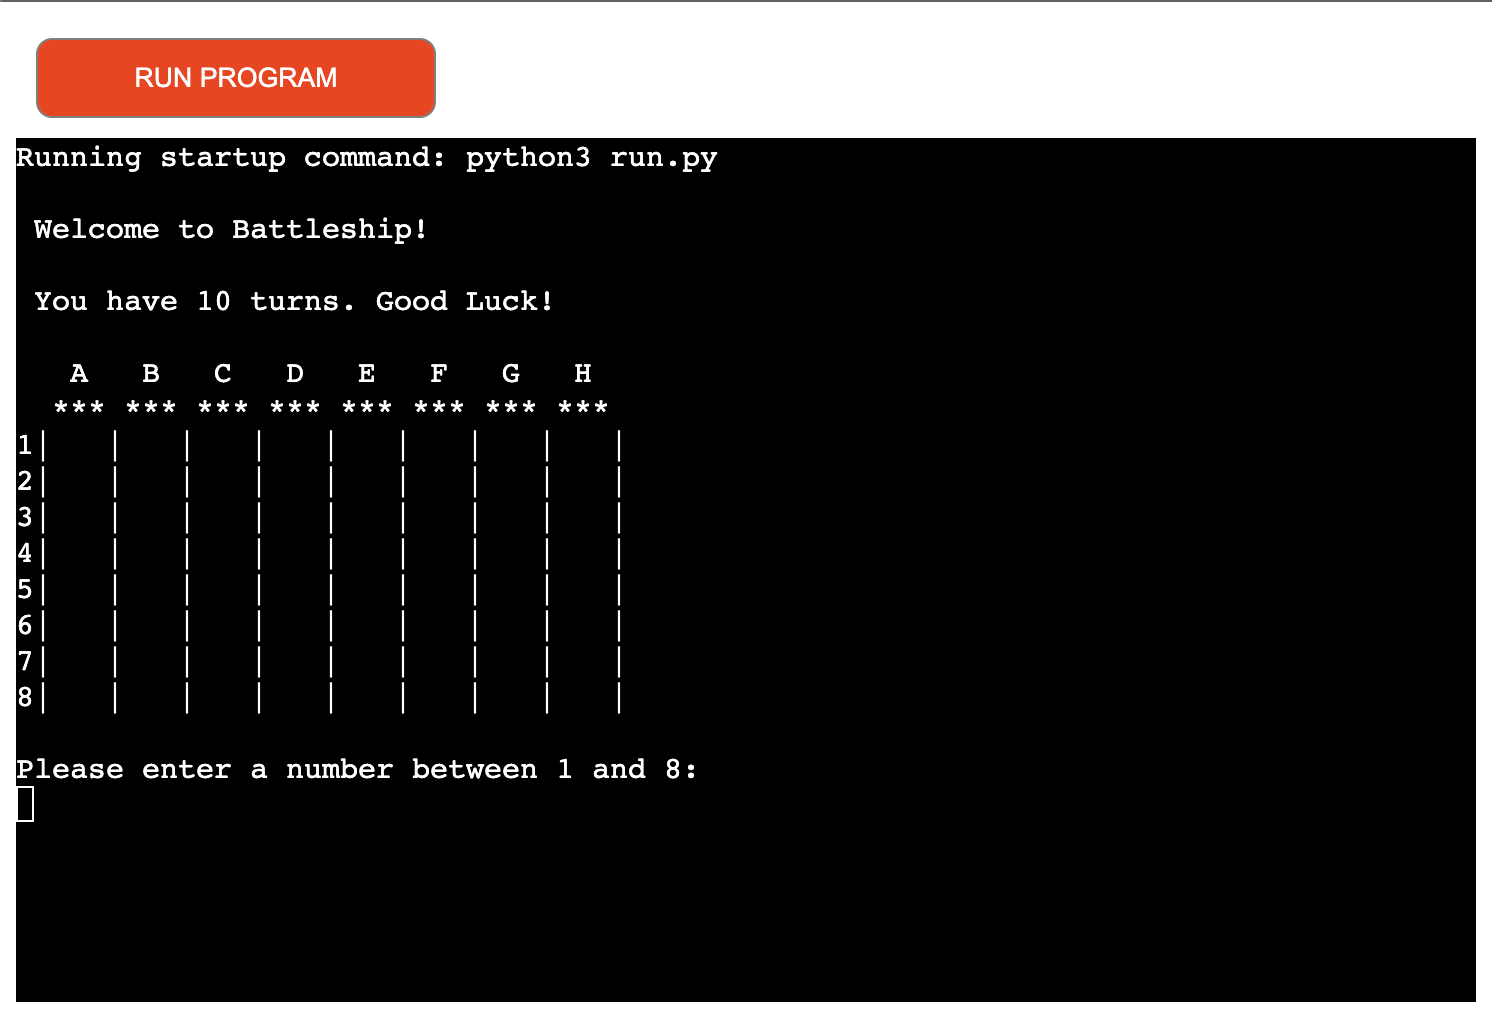
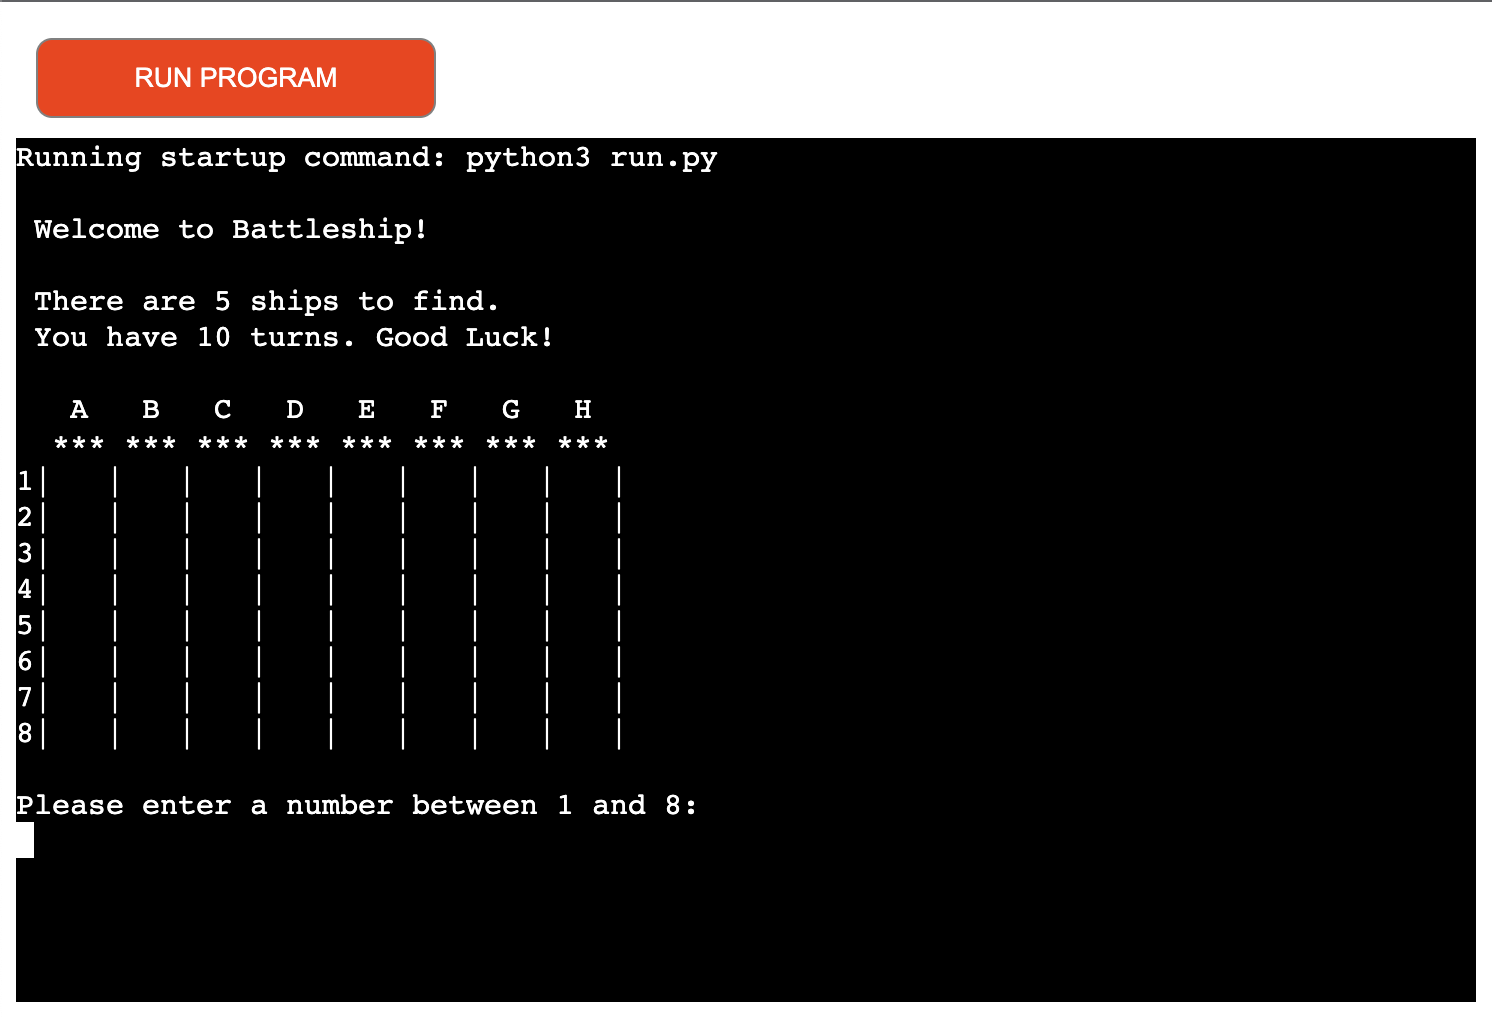
Add content to README.md and missing code in while loop.

diff --git a/run.py b/run.py
@@ -77,7 +77,7 @@ turns = 10
 print(' Welcome to Battleship!')
 print()
 print(' There are 5 ships to find.')
-print(' You have ' + str(turns) + ' turns. Good Luck!')
+print(' You start with ' + str(turns) + ' turns. Good Luck!')
 
 
 while turns > 0:
@@ -94,6 +94,10 @@ while turns > 0:
         print()
         Guess_Pattern[row][col] = 'O'
         turns -= 1
+    if count_hit_ships(Guess_Pattern) == 5:
+        print("Congratulations, you have sunk all the battleships!")
+        break
+    print(' You have ' + str(turns) + ' turns remaining.')
     if turns == 0:
         print()
         print('      GAME OVER!')

diff --git a/README.md b/README.md
@@ -4,31 +4,36 @@ This is a Battleship game made in Python code.
 It is deployed on Heroku platform together with nodejs package made på Code Institute. 
 Go to https://sams-battleship-game.herokuapp.com/ to try it out. It is a web site with a mockup terminal. The game starts automatically.  When game is finished it can be restarted with the button "run program".
 
+
 ![Screenshot](assets/images/screenshot.png)
 
+
 # Features
-- 
+- Start screen will diplay board and instruction.
+- Players first input is a number to choose row.
+- Players second input is a letter to choose column.
+- Player will then see a new board that shows if it is a hit or a miss.
+- Player will do this after every round for 10 times.
+- Player get information on how many rounds is remaining.
+- When it is game over player will see a board showing all hits, misses and hidden ships.
 
-## Existing Features
-
-### Navigation Bar
 
 ## Features left to implement
-- 
+- Bigger ships
+- Player option to choose number of ships and number of rounds
+
 
 # Testing
+- Tested to put in a letter instead of a number. Player will get information it was wrong and a new input option.
+- Tested to put in a number instead of a letter. Player will get information it was wrong and a new input option.
+- Tested to press enter without any input. Player will get information it was wrong and a new input option.
+- Tested with both uppercase and lowercase letter. Game will go on without any stop. 
+- Tested to play 10 rounds without any stops or errors. Player will see the final board.
 
-
-# Validator Testing
-
-
-# Deployment
-The site was deployed with Heroku platform.
 
 # Credits
-Example code and design is used from:
-https://copyassignment.com/
-https://stackoverflow.com/
-https://datatofish.com/
-https://realpython.com/
-- 
+**Example code and design is used from:**
+- https://copyassignment.com/
+- https://stackoverflow.com/
+- https://datatofish.com/
+- https://realpython.com/
